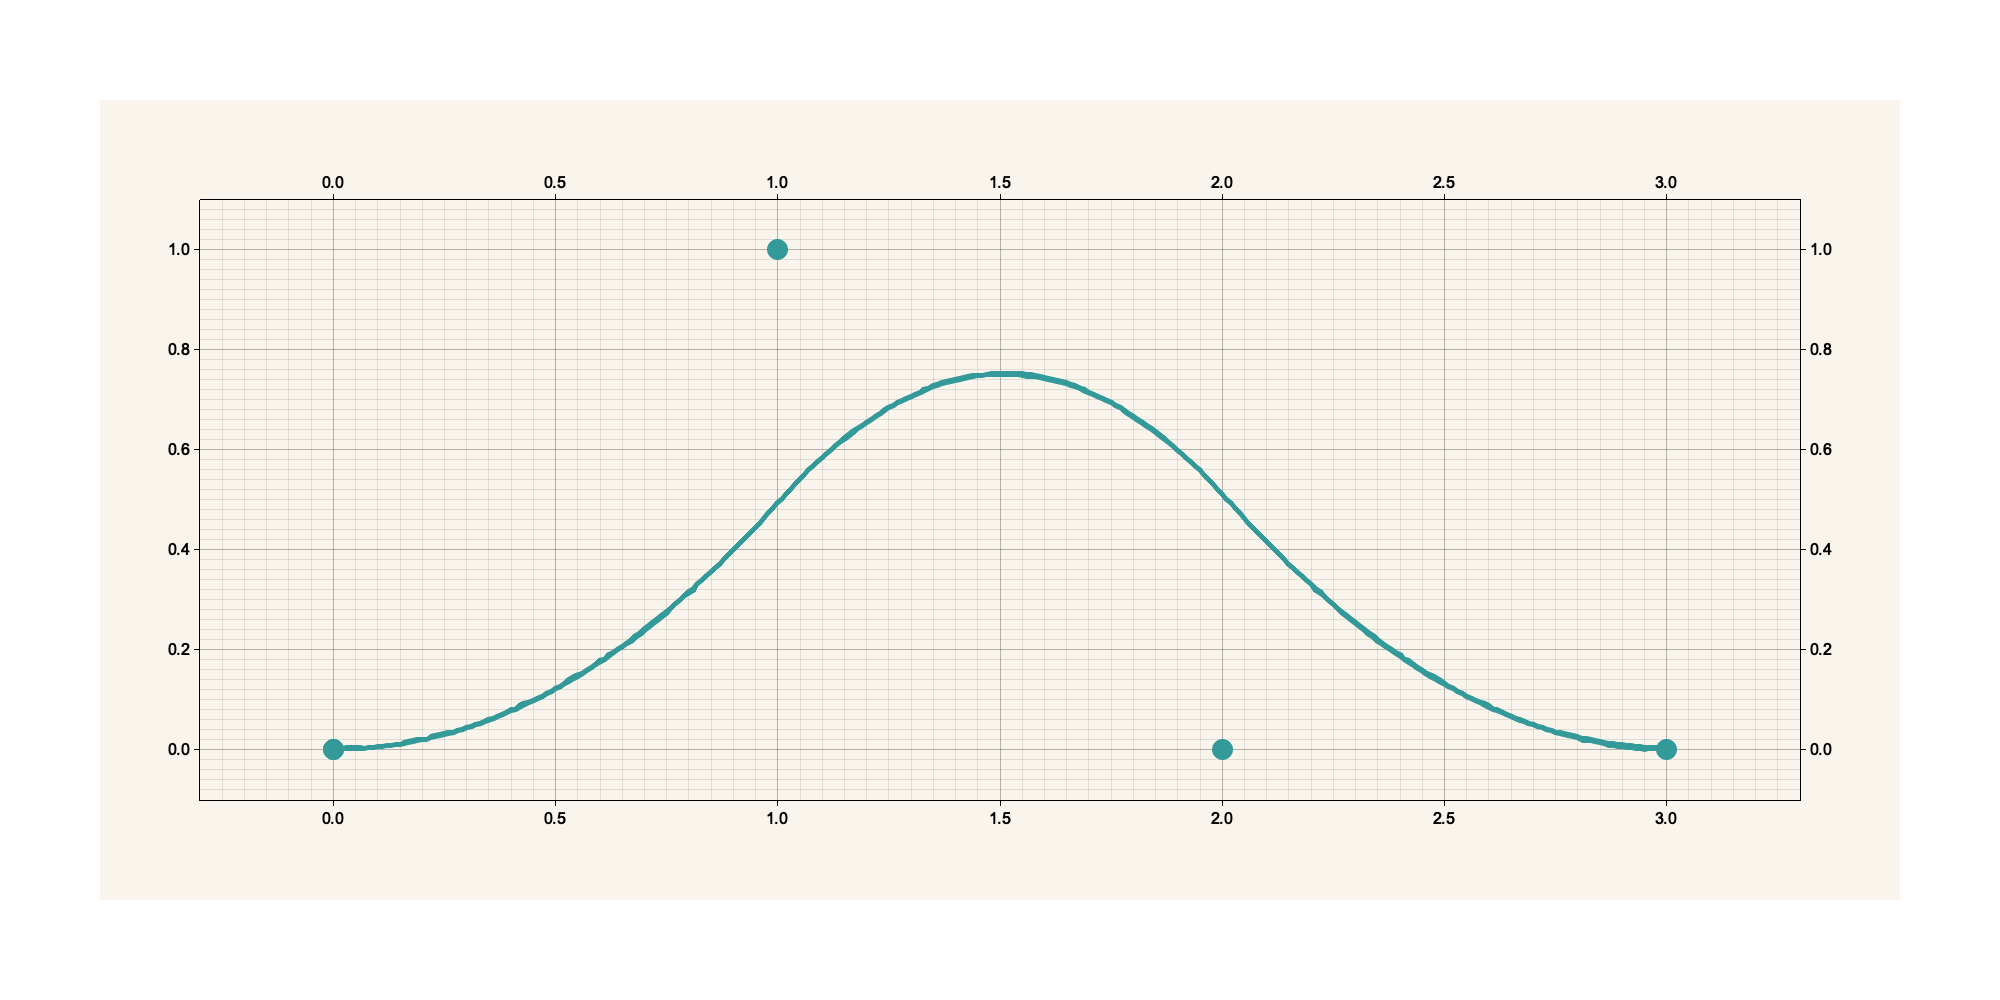
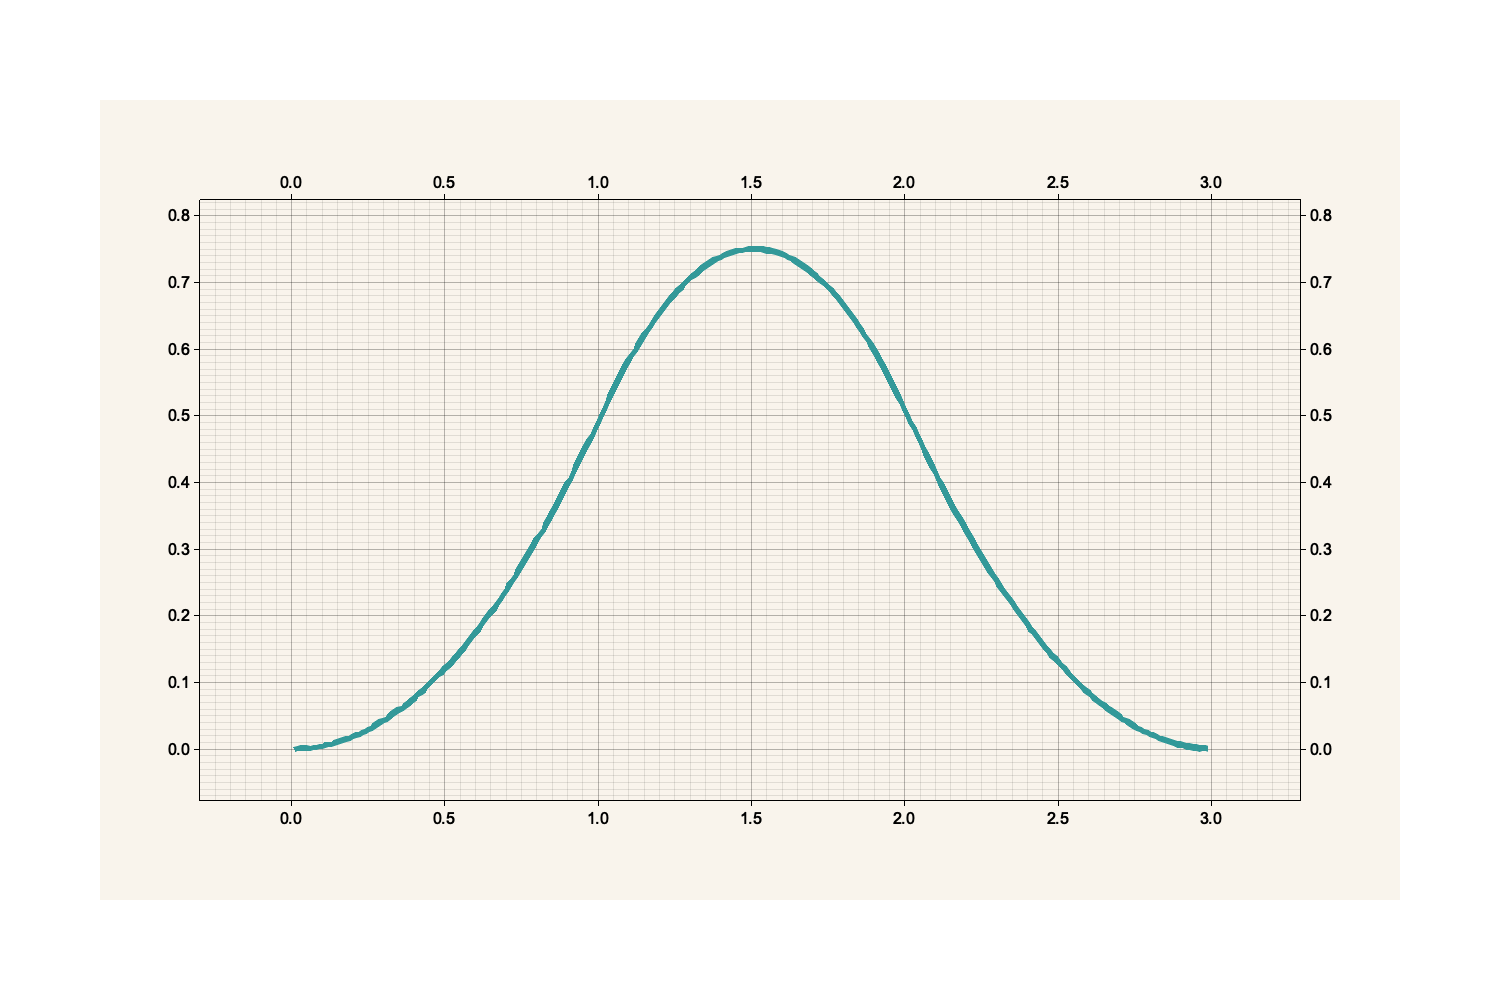
No knots for N==1

Changed region(s): [[0.092, 0.155, 0.92, 0.837]]

diff --git a/src/plot.rs b/src/plot.rs
@@ -4,7 +4,7 @@ use super::{Result, SplineCurve};
 use plotters::{prelude::*};
 
 
-pub fn range<const K:usize, const N:usize>(s: &SplineCurve<K,N>) -> Result<[f64;4]> {
+pub fn range_knots<const K:usize, const N:usize>(s: &SplineCurve<K,N>) -> Result<[f64;4]> {
     let nc = s.c.len();
     let nc_2 = nc/2;
     let (x_min, x_max) = match N {
@@ -33,37 +33,41 @@ pub fn range<const K:usize, const N:usize>(s: &SplineCurve<K,N>) -> Result<[f64;
     Ok([x_min, x_max, y_min, y_max])
 }
 
+pub fn range_spline(u: &[f64], xn: &[f64]) -> Result<[f64;4]> {
+    let n = xn.len()/u.len();
+    let (x_min, x_max) = match n {
+        1 => (
+            u.iter().cloned().reduce(f64::min).unwrap(),
+            u.iter().cloned().reduce(f64::max).unwrap(),
+        ),
+        2 => (
+            // step-by starts at 0
+            xn.iter().step_by(1).cloned().reduce(f64::min).unwrap(),
+            xn.iter().step_by(1).cloned().reduce(f64::max).unwrap(),
+        ),
+        _ => return Err("only dimensions 0 and 1 supported".into())
+    };
+    let (y_min, y_max) = match n {
+        1 => (
+            xn.iter().cloned().reduce(f64::min).unwrap(),
+            xn.iter().cloned().reduce(f64::max).unwrap(),
+        ),
+        2 => (
+            xn.iter().skip(1).step_by(1).cloned().reduce(f64::min).unwrap(),
+            xn.iter().skip(1).step_by(1).cloned().reduce(f64::max).unwrap(),
+        ),
+        _ => return Err("only dimensions 0 and 1 supported".into())
+    };
+    Ok([x_min, x_max, y_min, y_max])
+}
+
 pub fn avg(t: &[f64], k: usize) -> Vec<f64> {
      t.windows(k).map(|ts|ts.iter().sum::<f64>()/k as f64).collect()
 }
 
-pub fn control_points<const K: usize, const N: usize>(s: &SplineCurve<K,N>) -> Result<Vec<(f64,f64)>> {
-    let nc = s.c.len();
-    let nc_2 = nc/2;
-   // let knot_avg;
-    let c_x: &[f64] = match N {
-        1 => {
-            match K {
-             1|3|5 => &s.t[(K+1)/2..],
-             2|4 => &s.t[(K+1)/2..], // todo!
-             _ => return Err("1<=K<=5".into()),
-            }
-        }
-        2 => &s.c[0..nc_2],
-        _ => return Err("Illegal dimension for plot".into())
-    };
-    let c_y: &[f64] = match N {
-        1 => &s.c[..],
-        2 => &s.c[nc_2..nc],
-        _ => return Err("Illegal dimension for plot".into())
-    };
-    Ok(
-        c_x.iter().cloned().zip(c_y.iter().cloned()).collect()
-    )
-}
 
 
-/// Plots a two-dimensional (xy) spline curve, its knots, and 
+/// Plots a two-dimensional (xy) spline curve for testing review
 ///  
 pub fn plot<const K: usize, const N: usize>(
     s: SplineCurve<K,N>,
@@ -72,7 +76,16 @@ pub fn plot<const K: usize, const N: usize>(
     u: &[f64],
     xy: Option<&[f64]>,
 ) -> Result<()> {
-    let [x_min, x_max, y_min, y_max] = range(&s)?;
+   // if N>2 { return Err("only 2D plots supported".into())}
+
+    let s_xy = s.evaluate(&u)?;
+
+    let [x_min, x_max, y_min, y_max] = match N {
+           1 => range_spline(u, &s_xy)?,
+           2 => range_knots(&s)?,
+           _ => return Err("only 2D plots supported".into())
+        };
+
     let width = x_max - x_min;
     let height = y_max - y_min;
 
@@ -100,15 +113,22 @@ pub fn plot<const K: usize, const N: usize>(
         .label_style(TextStyle::from(("sans-serif", 20).into_font()))
         .draw()?;
 
-    // draw control points
-    chart.draw_series(
-        control_points(&s)?
-            .into_iter()
-            .map(|xy|Circle::new(xy, 10, spline_color.filled())),
-    )?;
+    if N==2 {
+        // draw control points, only in 2D case
+        let nc = s.c.len();
+        let nc_2 = nc/2;
+        let c_x = &s.c[0..nc_2];
+        let c_y =  &s.c[nc_2..nc];
+       // let c: Vec<(f64,f64)> = c_x.iter().cloned().zip(c_y.iter().cloned()).collect();
+        chart.draw_series(
+           c_x.iter().cloned().zip(c_y.iter().cloned()) 
+         //   control_points(&s)?
+         //       .into_iter()
+                .map(|xy|Circle::new(xy, 10, spline_color.filled())),
+        )?;
+    }
 
     // draw spline 
-    let s_xy = s.evaluate(&u)?;
     if N==2 {
         chart.draw_series(LineSeries::new(
             s_xy.chunks(2).map(|xy|(xy[0],xy[1])),

diff --git a/src/spline.rs b/src/spline.rs
@@ -107,7 +107,7 @@ mod tests {
             .for_each(|(&a, &b)| assert_abs_diff_eq!(a, b, epsilon = 1E-8));
 
         let u: Vec<f64>  = (0..100).into_iter().map(|v|v as f64/100.0).collect();
-        s.plot("test.png", (2000,1000), &u, None).unwrap();
+        s.plot("test.png", (1500,1000), &u, None).unwrap();
     }
     #[test]
     fn quadratic_bspline() {
@@ -131,7 +131,7 @@ mod tests {
             .for_each(|(&a, &b)| assert_abs_diff_eq!(a, b, epsilon = 1E-8));
 
         let u: Vec<f64>  = (0..300).into_iter().map(|v|v as f64/100.0).collect();
-        s.plot("test.png", (2000,1000), &u, None).unwrap();
+        s.plot("test.png", (1500,1000), &u, None).unwrap();
     }
 
     #[test]
